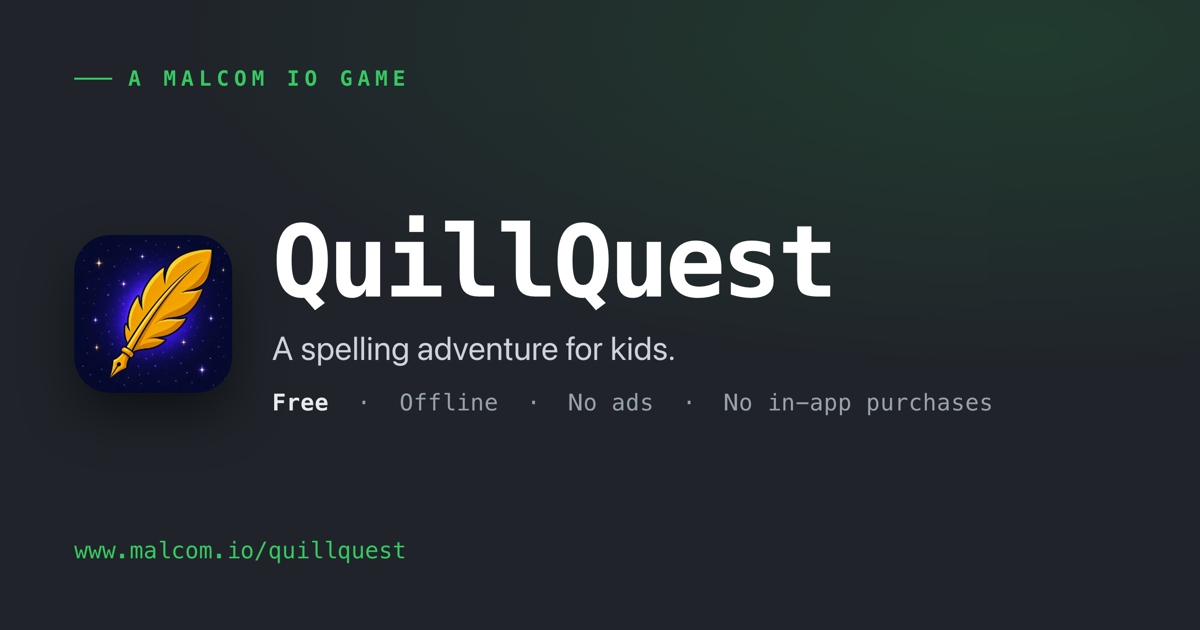
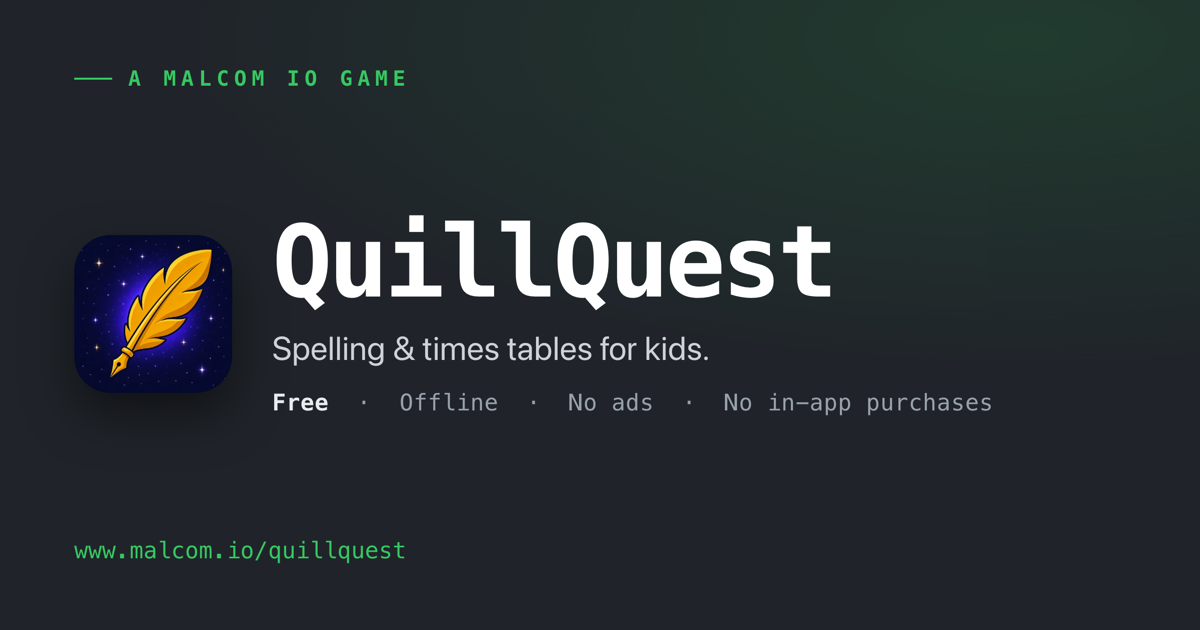
QuillQuest: reframe landing + assets as a two-realm app (spelling + times tables) (#39)
QuillQuest shipped v1.0.0 (in App Store review) as two realms on one engine —
Spelling and Times Tables, chosen from a home screen. Rework the marketing
site from single-subject to "two ways to play," per the canonical App Store
listing (docs/app-store-listing.md).

Copy (quillquest.component.html/.ts)
- Hero tagline "Two ways to play — spelling and times tables"; hero sub reframed
  to "pick a realm" (spell by ear, or race the times-tables trail on a number pad)
- Section heading "Two realms, one real quest"; 6 perks covering both realms and
  the shared XP/ranks/badges/themes/streak; parent note + buddies caption + final
  CTA de-spelling-ified

Screenshots
- Replace the gallery with the 7 new App Store captures (home/realm picker,
  spelling round, reveal, times round, trail map, summary, players); regenerate
  optimized webps. Gallery now shows both a spelling and a times-tables screen.

FAQs (quillquest-faqs.ts)
- Add: what kids can practice (two subjects); how times tables work (number pad,
  no multiple-choice, teaching reveal with a skip-count); the ×0/×1 warm-up rule.
- Note Times Tables is silent (voices are Spelling-only); setup FAQ mentions
  picking a realm.

SEO/meta
- /quillquest title + description + og:image:alt reframed; app JSON-LD, support
  and privacy leads, and the site-wide default description updated. Regenerate
  og-card.png ("Spelling & times tables for kids."). Bump sitemap lastmod.
[…]

Changed region(s): [[0.2158, 0.5127, 0.5858, 0.6032]]

diff --git a/src/app/quillquest/quillquest.component.ts b/src/app/quillquest/quillquest.component.ts
@@ -19,14 +19,16 @@ interface Shot {
   caption: string;
 }
 
-// [file stem, alt text, gallery caption] — order matches the App Store listing.
+// [file stem, alt text, gallery caption] — order matches the App Store listing,
+// and covers both realms (spelling + times tables) plus the shared systems.
 const SHOT_META: [string, string, string][] = [
-  ['qq-iphone-1-home', 'QuillQuest home screen', 'Spelling worth leveling up'],
-  ['qq-iphone-2-trail', 'The QuillQuest adventure trail', 'An adventure map to every word'],
-  ['qq-iphone-3-round', 'Spelling a word during a round', 'Hear it. Spell it. Nail it.'],
-  ['qq-iphone-4-reveal', 'Answer reveal with feedback', 'Feedback that actually teaches'],
-  ['qq-iphone-5-summary', 'End-of-round summary', 'Every word is a win'],
-  ['qq-iphone-6-players', 'Multiple player profiles', 'One app, every kid'],
+  ['qq-iphone-1-home', 'QuillQuest home screen — pick Spelling or Times Tables', 'Two ways to play, one adventure'],
+  ['qq-iphone-2-spelling', 'Spelling a word by ear during a round', 'Hear it. Spell it. Nail it.'],
+  ['qq-iphone-3-reveal', 'Answer reveal showing the correct spelling and where you slipped', 'Feedback that actually teaches'],
+  ['qq-iphone-4-times', 'Answering a times-tables fact on the number pad', 'Times tables that feel like a game'],
+  ['qq-iphone-5-trail', 'The times-tables trail from Trailhead to Summit', 'An adventure map to every level'],
+  ['qq-iphone-6-summary', 'End-of-stage summary with stars and XP', 'Every answer is a win'],
+  ['qq-iphone-7-players', 'Multiple player profiles', 'One app, every kid'],
 ];
 
 @Component({
@@ -62,7 +64,7 @@ export class QuillquestComponent {
     {
       icon: 'graduation-cap',
       title: 'Actually teaches',
-      body: 'A graded curriculum, mastery-based levels, and spaced-repetition review of the words your kid misses.',
+      body: 'A graded curriculum in both subjects, mastery-based levels, and spaced-repetition review of whatever your kid misses.',
     },
     {
       icon: 'heart',
@@ -77,11 +79,12 @@ export class QuillquestComponent {
   ];
 
   readonly perks: string[] = [
-    '10 levels of hand-graded words (~3,500), from Sprout to the Bee Level',
-    'Friendly characters — Ivy, Owen & Mia — read every word aloud in real recorded voices',
-    'Miss a word? It shows the correct spelling and exactly where you slipped',
-    'Ranks, stars, badges, and unlockable themes to earn',
-    'Practice packs: compound words, homophones, prefixes & suffixes, and “words I missed”',
+    'Two realms on one engine — spell words by ear, or race the times-tables trail',
+    'Spelling: hear each word in a real recorded voice (Ivy, Owen & Mia), then spell it out — 10 levels of hand-graded words from Sprout to the Bee Level',
+    'Times Tables: type every answer on a number pad — no multiple-choice — climbing 10 steps from Trailhead to Summit',
+    'Miss one? Spelling shows the correct spelling and where you slipped; Times Tables shows the product with a skip-count',
+    'Master a level to unlock the next — never by grinding points — and whatever you miss comes back on a smart review schedule',
+    'One “you” across both realms: XP, ranks, badges, six themes, and a daily streak',
   ];
 
   readonly buddies = [

diff --git a/src/app/quillquest/quillquest.component.html b/src/app/quillquest/quillquest.component.html
@@ -15,7 +15,10 @@
             fetchpriority="high" />
           <p class="eyebrow eyebrow--hero">A Malcom IO game</p>
           <h1 class="display-mono qq-title">QuillQuest</h1>
-          <p class="lead-lg qq-tagline">A spelling adventure that grows with your kid. Fun, not childish.</p>
+          <p class="lead-lg qq-tagline">
+            Two ways to play — spelling and times tables — in one adventure that grows with your kid.
+            Fun, not childish.
+          </p>
           <ul class="qq-badges" aria-label="At a glance">
             <li>Free</li>
             <li>Offline</li>
@@ -25,9 +28,10 @@
             <li>No accounts</li>
           </ul>
           <p class="text-muted-2 qq-hero-sub">
-            Hear a word, spell it out, climb the ranks. QuillQuest turns spelling into a quest — and
-            builds real skill along the way. Great for grades 3–8 (roughly ages 8–14); it places every
-            kid by level, so younger and older spellers fit right in too.
+            Pick a realm: hear a word and spell it out, or race the times-tables trail on a number pad.
+            QuillQuest turns practice into a quest — and builds real skill along the way. Great for
+            grades 3–8 (roughly ages 8–14); it places every kid by level, so younger and older learners
+            fit right in too.
           </p>
           <div class="qq-cta-block">
             @if (appStoreUrl) {
@@ -73,7 +77,7 @@
       <p class="eyebrow">Why parents trust it</p>
       <h2 class="h-section">Private by design, and it really teaches</h2>
       <p class="qq-parent-note">
-        Made by a parent who wanted spelling practice their own kids would actually choose.
+        Made by a parent who wanted practice their own kids would actually choose.
       </p>
       <div class="row g-4 mt-3">
         @for (t of trust; track t.title) {
@@ -100,7 +104,7 @@
       <div class="row gy-5 gx-4 gx-lg-5 align-items-center">
         <div class="col-lg-7">
           <p class="eyebrow">What kids get</p>
-          <h2 class="h-section">A real quest, built on real spelling</h2>
+          <h2 class="h-section">Two realms, one real quest</h2>
           <ul class="qq-perks">
             @for (perk of perks; track perk) {
               <li><app-icon name="check" class="green-text"></app-icon><span>{{ perk }}</span></li>
@@ -117,7 +121,7 @@
             }
           </div>
           <p class="text-muted-2 small font-monospace text-center mb-0 mt-2">
-            Ivy, Owen &amp; Mia read every word aloud.
+            Ivy, Owen &amp; Mia read every spelling word aloud.
           </p>
         </div>
       </div>
@@ -155,7 +159,7 @@
       <h2 class="h-section">Get QuillQuest free</h2>
       <p class="lead-lg text-muted-2 mx-auto" style="max-width: 48ch">
         Free, offline, and private — no ads, no in-app purchases, no tracking, no accounts.
-        Just spelling worth leveling up.
+        Spelling and times tables, worth leveling up.
       </p>
       <div class="qq-cta-block qq-cta-block--center mt-4">
         @if (appStoreUrl) {

diff --git a/src/app/quillquest/quillquest-faqs.ts b/src/app/quillquest/quillquest-faqs.ts
@@ -8,10 +8,22 @@ export interface QuillquestFaq {
  * (in app.routes.ts) never drift apart.
  */
 export const QUILLQUEST_FAQS: QuillquestFaq[] = [
+  {
+    q: 'What can kids practice?',
+    a: 'Two subjects in one app — Spelling and Times Tables. Kids pick a realm from the home screen; nothing is ever assigned. XP, ranks, badges, themes, and the daily streak are shared across both.',
+  },
+  {
+    q: 'How do the times tables work?',
+    a: "Kids type each answer on a number pad — no multiple-choice guessing. Miss one and QuillQuest shows the product with a skip-count (like 5, 10, 15…) so it teaches instead of just marking it wrong, and levels climb from the Trailhead to the Summit. Times Tables is silent — the recorded voices are a Spelling feature.",
+  },
+  {
+    q: 'Do you drill the ×0 and ×1 tables?',
+    a: 'No — ×0 and ×1 are taught once as a quick warm-up rule (anything ×0 is 0, and ×1 is itself), then the game focuses on the facts that actually take practice.',
+  },
   { q: 'Does it work offline?', a: 'Yes — fully offline, no internet needed to play.' },
   {
-    q: "No sound, or a word won't play aloud?",
-    a: "Audio is the heart of the game, so start with the device: make sure it isn't on silent — flip the side Ring/Silent switch so no orange is showing — and turn the volume up. You can always tap the speaker to hear a word again, and each level's read-aloud voice can be changed in Settings.",
+    q: "No sound in Spelling, or a word won't play aloud?",
+    a: "Audio is the heart of Spelling (Times Tables is silent by design), so start with the device: make sure it isn't on silent — flip the side Ring/Silent switch so no orange is showing — and turn the volume up. You can always tap the speaker to hear a word again, and each level's read-aloud voice can be changed in Settings.",
   },
   {
     q: 'Does it collect any data?',
@@ -27,7 +39,7 @@ export const QUILLQUEST_FAQS: QuillquestFaq[] = [
   },
   {
     q: 'How do I set it up?',
-    a: "Open the app, enter your child's age, and they're playing.",
+    a: "Open the app, enter your child's age, and pick a realm — Spelling or Times Tables — to start playing.",
   },
   {
     q: 'How do I turn off the daily reminder?',

diff --git a/src/index.html b/src/index.html
@@ -7,7 +7,7 @@
   <meta name="viewport" content="width=device-width, initial-scale=1">
 
   <!-- SEO (static fallback; the SEO strategy re-bakes these per route at prerender) -->
-  <meta name="description" content="Malcom IO builds custom software — from medical software and health interoperability to the QuillQuest mobile game — with a passion for improving the world.">
+  <meta name="description" content="Malcom IO builds custom software — from medical software and health interoperability to the QuillQuest spelling &amp; times-tables game — with a passion for improving the world.">
   <link rel="canonical" href="https://www.malcom.io/">
   <meta name="theme-color" content="#343a40">
 
@@ -15,14 +15,14 @@
   <meta property="og:type" content="website">
   <meta property="og:site_name" content="Malcom IO">
   <meta property="og:title" content="Malcom IO — Building Better">
-  <meta property="og:description" content="Malcom IO builds custom software — from medical software and health interoperability to the QuillQuest mobile game — with a passion for improving the world.">
+  <meta property="og:description" content="Malcom IO builds custom software — from medical software and health interoperability to the QuillQuest spelling &amp; times-tables game — with a passion for improving the world.">
   <meta property="og:url" content="https://www.malcom.io/">
   <meta property="og:image" content="https://www.malcom.io/assets/img/og-card.png">
 
   <!-- Twitter -->
   <meta name="twitter:card" content="summary_large_image">
   <meta name="twitter:title" content="Malcom IO — Building Better">
-  <meta name="twitter:description" content="Malcom IO builds custom software — from medical software and health interoperability to the QuillQuest mobile game — with a passion for improving the world.">
+  <meta name="twitter:description" content="Malcom IO builds custom software — from medical software and health interoperability to the QuillQuest spelling &amp; times-tables game — with a passion for improving the world.">
   <meta name="twitter:image" content="https://www.malcom.io/assets/img/og-card.png">
 
   <link rel="icon" href="/favicon.ico?v=2" sizes="32x32">

diff --git a/src/app/app.routes.ts b/src/app/app.routes.ts
@@ -38,7 +38,9 @@ const QUILLQUEST_APP = {
   applicationCategory: 'EducationalApplication',
   url: 'https://www.malcom.io/quillquest/',
   image: QQ_OG_IMAGE,
-  description: 'A free, offline spelling game for grades 3–8 — no ads, no tracking, no accounts.',
+  description:
+    'A free, offline learning game for grades 3–8 — spelling and times tables in one app, ' +
+    'with no ads, no tracking, and no accounts.',
   audience: { '@type': 'EducationalAudience', educationalRole: 'student' },
   // Pre-launch: mark the free offer as PreOrder so the markup matches the page's
   // "Coming to the App Store — 2026" state (not "available now").
@@ -96,14 +98,14 @@ export const routes: Routes = [
   {
     path: 'quillquest',
     component: QuillquestComponent,
-    title: 'QuillQuest — A spelling adventure for kids | Malcom IO',
+    title: 'QuillQuest — Spelling & times tables for kids | Malcom IO',
     data: {
       ogTitle: 'QuillQuest',
       description:
-        'QuillQuest is a free, offline spelling game for grades 3–8 — no ads, no tracking, ' +
-        'no accounts. Hear a word, spell it, and climb the ranks.',
+        'QuillQuest is a free, offline learning game for grades 3–8 — spelling and times tables ' +
+        'in one app. No ads, no tracking, no accounts. Pick a realm and climb the ranks.',
       ogImage: QQ_OG_IMAGE,
-      ogImageAlt: 'QuillQuest — a spelling adventure for kids',
+      ogImageAlt: 'QuillQuest — spelling and times tables for kids',
       jsonLd: QUILLQUEST_APP,
     } satisfies SeoData,
   },
@@ -127,7 +129,7 @@ export const routes: Routes = [
     data: {
       ogTitle: 'QuillQuest — Support',
       description:
-        'Help and FAQ for QuillQuest, the free offline spelling game for kids. ' +
+        'Help and FAQ for QuillQuest, the free offline spelling & times-tables game for kids. ' +
         'Questions? Email contact@malcom.io.',
       ogImage: QQ_OG_IMAGE,
       jsonLd: [FAQ_PAGE, quillquestBreadcrumb('Support', '/quillquest/support/')],

diff --git a/src/app/quillquest/quillquest-support.component.html b/src/app/quillquest/quillquest-support.component.html
@@ -6,8 +6,8 @@
         <h1 class="doc-title display-mono">Support</h1>
 
         <p class="lead-lg doc-lead">
-          QuillQuest is a free, offline spelling game for grades 3–8 (roughly ages 8–14). No accounts,
-          no ads, no tracking.
+          QuillQuest is a free, offline spelling &amp; times-tables game for grades 3–8 (roughly ages
+          8–14). No accounts, no ads, no tracking.
         </p>
 
         <h2 class="doc-h">Need help?</h2>

diff --git a/src/app/shared/seo-title-strategy.ts b/src/app/shared/seo-title-strategy.ts
@@ -23,7 +23,7 @@ export interface SeoData {
 const ORIGIN = 'https://www.malcom.io';
 const DEFAULT_DESCRIPTION =
   'Malcom IO builds custom software — from medical software and health interoperability ' +
-  'to the QuillQuest mobile game — with a passion for improving the world.';
+  'to the QuillQuest spelling & times-tables game — with a passion for improving the world.';
 const DEFAULT_IMAGE = `${ORIGIN}/assets/img/og-card.png`;
 
 /**

diff --git a/src/app/quillquest/quillquest-privacy.component.html b/src/app/quillquest/quillquest-privacy.component.html
@@ -7,7 +7,7 @@
         <p class="doc-meta text-muted-2">Effective date: July 7, 2026</p>
 
         <p class="lead-lg doc-lead">
-          QuillQuest is a spelling game for kids, built to be private by design.
+          QuillQuest is a spelling &amp; times-tables game for kids, built to be private by design.
           <strong>QuillQuest does not collect, store, or transmit any personal information.</strong>
         </p>
 
